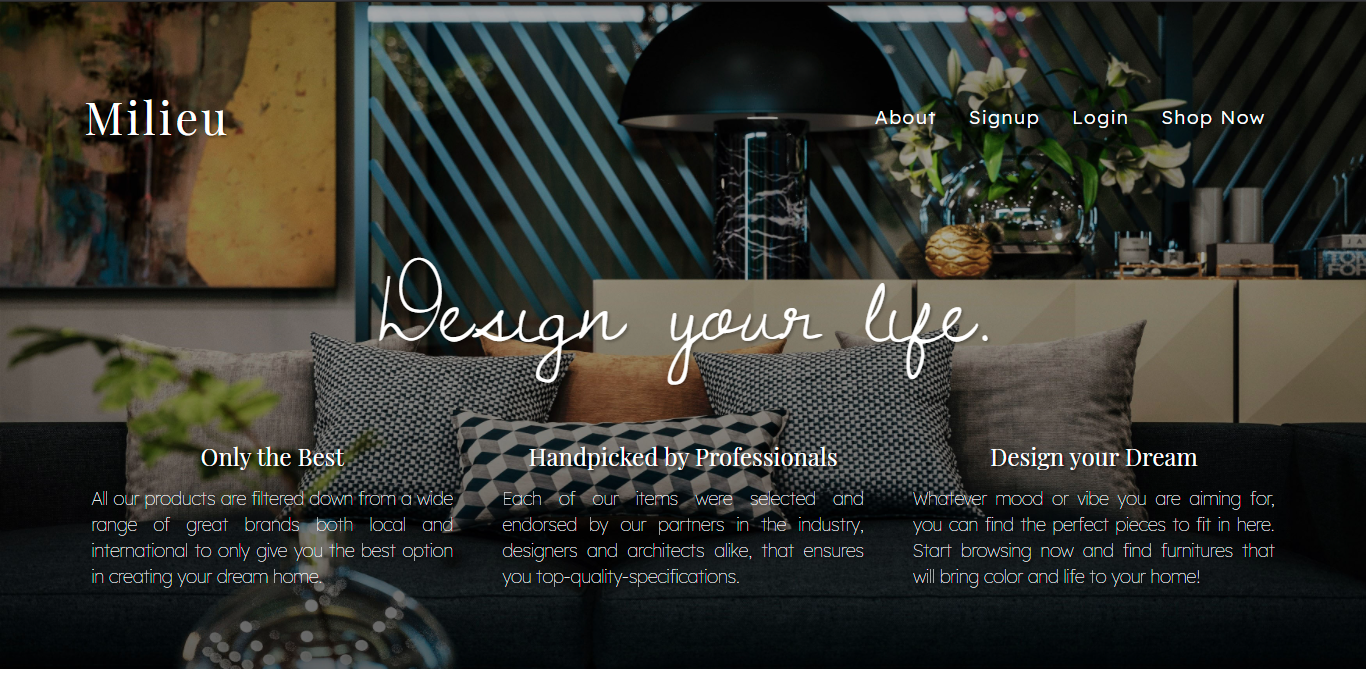
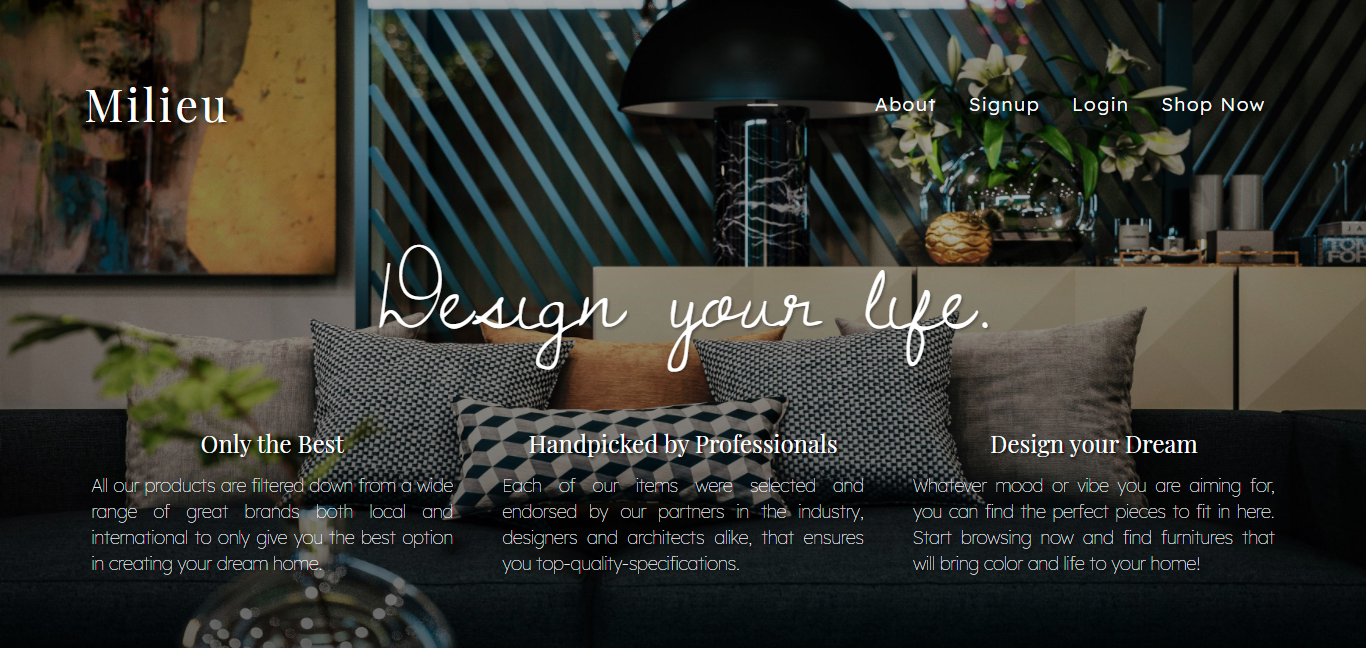
Changed pictures for cover and others

diff --git a/index.html b/index.html
@@ -68,7 +68,7 @@
       <section id="about" class="container-fluid text-center pl-5 pr-5 pt-5 pb-5">
           <div class="row no-gutter">
               <div class="col-lg-3">
-                  <img src="./img/top.png" width="200" class="img-fluid rounded-circle">
+                  <img src="./img/circ-edit.jpg" width="200" class="img-fluid rounded-circle">
               </div>
               <div class=" col-lg-9">
                 <h3>About Me...</h3>
@@ -97,7 +97,7 @@
                   <div class="card h-100">
                     <img src="./img/web-1.png" class="card-img-top" alt="...">
                     <div class="card-body">
-                      <h5 class="card-title">Capstone Project 1</h5>
+                      <h5 class="card-title">Web Dev Portfolio</h5>
                       <p class="card-text text-justify">For our first capstone project we were tasked to create our web developer portfolio. This project is my first take on Bootstrap and how to use it along with an external CSS styling. The design was primarily aiming to be minimalist, as I go along the process of getting to know how to use the framework to make a responsive website.</p>
                       <button class="btn btn-warning"><a class="text-decoration-none text-reset" href="https://patricia-stodomingo.github.io/csp1/#projects" target="_blank">Take a peek</a></button>
                     </div>
@@ -107,7 +107,7 @@
                   <div class="card h-100">
                     <img src="./img/csp-3.png" class="card-img-top" alt="Under Construction Vectors by Vecteezy">
                     <div class="card-body">
-                      <h5 class="card-title">Capstone Project 2 & 3</h5>
+                      <h5 class="card-title">Ecommerce Website | Milieu Furnitures</h5>
                       <p class="card-text text-justify">This is a furniture ecommerce website project that is designed with React for frontend with integration to a backend API designed using MongoDB NodeJS and ExpressJS.</p>
                       <button class="btn btn-warning"><a class="text-decoration-none text-reset"
                           href="https://affectionate-engelbart-fe5b2b.netlify.app/" target="_blank">Take a peek</a></button>
@@ -118,7 +118,7 @@
                   <div class="card">
                     <img src="./img/under-construction.jpg" class="card-img-top" alt="Under Construction Vectors by Vecteezy">
                     <div class="card-body">
-                      <h5 class="card-title">Architectural Portfolio</h5>
+                      <h5 class="card-title">Website Under Construction</h5>
                       <p class="card-text text-justify">Thank you for your interest but unfortunately this website is still not yet deployed. It will be in the future, so do come back!</p>
                       <button type="button" class="btn btn-warning disabled">Not Available</button>
                     </div>
@@ -133,21 +133,21 @@
           <p class="pb-2">Let me know how I can help! Whether it's a business site or a personal project, or even if you just enjoy supporting people and investing on their capabilities, I would love to talk to you.</p>
           <div class="row d-flex container-fluid justify-content-center">
               <div class="col-lg-4 col-sm-12 border-0 d-flex flex-column align-items-center pt-2 pb-2" style="width: 18rem;">
-                <img src="./img/hire.png" class="rounded-circle text-center" alt="..." width="150">
+                <img src="./img/collaborate.jpg" class="rounded-circle text-center" alt="..." width="150">
                 <div class="card-body">
                   <p class="card-text text-justify">Are you planning to take your business to another level? Is creating a website for your business what you have in mind? Then you are in the right place. Just click on the link and we can get started in boosting your business!</p>
                   <a href="#contact" class="btn btn-warning container-fluid align-self-end">Hire Me!</a>
                 </div>
               </div>
               <div class="col-lg-4 col-sm-12 border-0 d-flex flex-column align-items-center pt-2 pb-2" style="width: 18rem;">
-                <img src="./img/collaborate.png" class="rounded-circle text-center" alt="..." width="150">
+                <img src="./img/hire.jpg" class="rounded-circle text-center" alt="..." width="150">
                 <div class="card-body">
                   <p class="card-text text-justify">Do you have a personal project you have been wanting to start for so long? Either you don't have time or need more brains then count me in! Click on the link and let's talk! I'm excited to hear about your project!</p>
                   <a href="#contact" class="btn btn-warning container-fluid align-self-end">Let's Collaborate!</a>
                 </div>
               </div>
               <div class="col-lg-4 col-sm-12 border-0 d-flex flex-column align-items-center pt-2 pb-2" style="width: 18rem;">
-                <img src="./img/support.png" class="rounded-circle text-center" alt="..." width="150">
+                <img src="./img/coffee-new.jpg" class="rounded-circle text-center" alt="..." width="150">
                 <div class="card-body">
                   <p class="card-text text-justify">Knowing people are viewing my portfolio means a lot to me. It means my design get to be seen by many others! Even if you don't need any websites to be done but you admire my work, then any kind of support would mean a lot to me.</p>
                   <a href="./form.html" class="btn btn-warning container-fluid align-self-end" target="_blank">Buy me a Coffee!</a>

diff --git a/style.css b/style.css
@@ -50,15 +50,18 @@ h3.pb-5 {
 
 button.btn.btn-warning {
 	color: white;
+	background-color: rgb(27, 27, 27);
+	border: 1px solid rgb(27, 27, 27);
 	font-family: "Roboto Slab", serif;
 	font-size: 1.2rem;
-	border-radius: 25px 25px;
+	border-radius: 0;
 }
 
 button.btn.btn-warning:hover {
 	color: #57606f;
 	background-color: #ffffff;
 	border-color: #57606f;
+	border-radius: 0;
 }
 
 p.card-text.text-justify {
@@ -77,26 +80,32 @@ button.btn.btn-warning.container-fluid {
 	color: white;
 	font-family: "Roboto Slab", serif;
 	font-size: 1.2rem;
-	border-radius: 25px 25px;
+	background-color: rgb(27, 27, 27);
+	border: 1px solid rgb(27, 27, 27);
+	border-radius: 0;
 }
 
 button.btn.btn-warning.container-fluid:hover {
 	color: #57606f;
 	background-color: #ffffff;
 	border-color: #57606f;
+	border-radius: 0;
 }
 
 a.btn.btn-warning {
 	color: white;
 	font-family: "Roboto Slab", serif;
 	font-size: 1.2rem;
-	border-radius: 25px 25px;
+	border-radius: 0;
+	background-color: rgb(27, 27, 27);
+	border: 1px solid rgb(27, 27, 27);
 }
 
 a.btn.btn-warning:hover {
 	color: #57606f;
 	background-color: #ffffff;
 	border-color: #57606f;
+	border-radius: 0;
 }
 
 a.nav-link:hover {
@@ -120,7 +129,7 @@ a.nav-link:hover {
 	margin-top: 3rem;
 	display: flex;
 	flex-direction: column;
-	background-image: url("./img/darker-cover.jpg");
+	background-image: url("./img/cover-new-overlay40.jpg");
 	background-size: cover;
 	height: 93vh;
 	width: 100%;
@@ -189,7 +198,7 @@ a.nav-link {
 }
 
 .site-footer {
-  	background-color:#26272b;
+  	background-color:rgb(27, 27, 27);
   	padding:45px 0 20px;
   	font-size:15px;
   	line-height:24px;
@@ -234,6 +243,10 @@ div.copyright {
 .icons {
 	display: flex;
 	flex-direction: column;
+}
+
+.form-control {
+	border-radius: 0;
 }
 
 a.fa {
